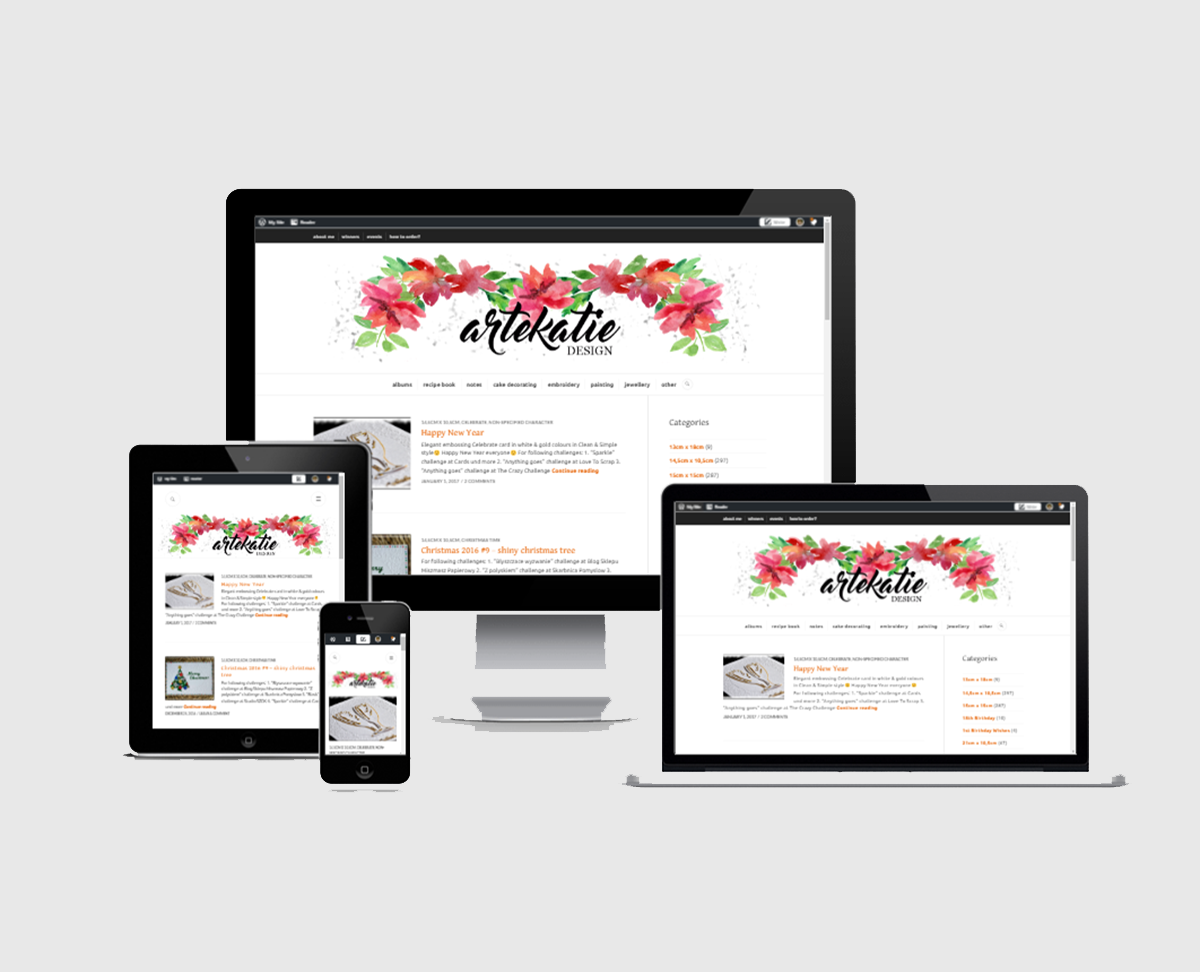
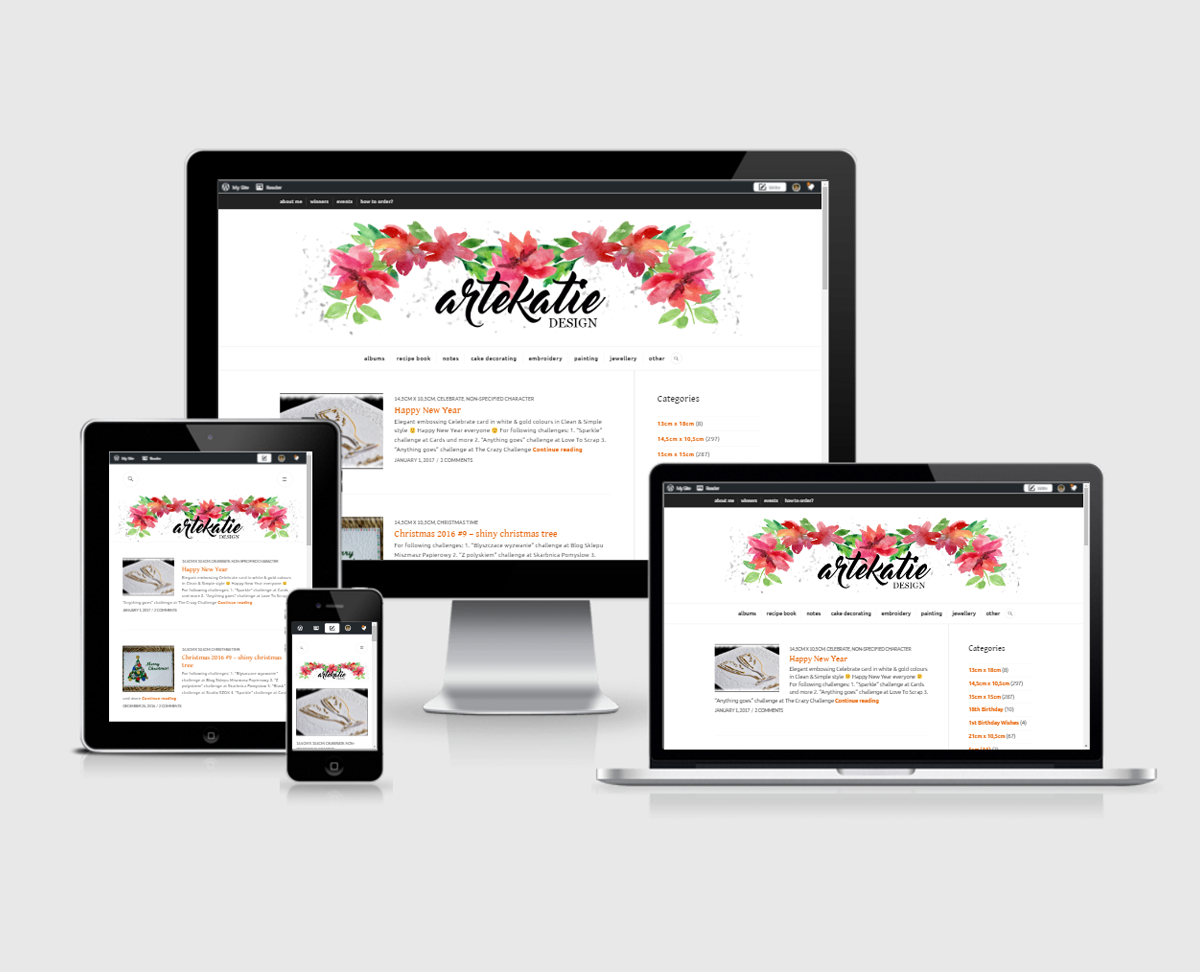
Work section images updated to 4 projects.

Changed region(s): [[0.0617, 0.1543, 0.9558, 0.8333]]

diff --git a/index.html b/index.html
@@ -37,16 +37,16 @@
 			<div class="collapse navbar-collapse" id="navbarNavDropdown">
 				<ul class="navbar-nav justify-content-center">
 					<li class="nav-item active">
-						<a class="nav-link" href="#">home<span class="sr-only">(current)</span></a>
+						<a class="nav-link" href="#top_section">home<span class="sr-only">(current)</span></a>
 					</li>
 					<li class="nav-item">
-						<a class="nav-link" href="#">skills</a>
+						<a class="nav-link" href="#skills_section">skills</a>
 					</li>
 					<li class="nav-item">
-						<a class="nav-link" href="#">portfolio</a>
+						<a class="nav-link" href="#work_section">portfolio</a>
 					</li>
 					<li class="nav-item">
-						<a class="nav-link" href="#">contact</a>
+						<a class="nav-link" href="#contact_section">contact</a>
 					</li>
 				</ul>
 			</div>
@@ -181,21 +181,21 @@
 			<h1 class="extra_text text-center">Proud to present my work</h1>
 			<div class="row">
 	            <div class="col-sm-6">
-	            	<img src="images/web_artekatie_blog.png" class="img-fluid project">
+	            	<img src="images/web_iskillu.png" class="img-fluid project img-thumbnail">
 	            </div>
 
 	            <div class="col-sm-6">
-	            	<img src="images/web_artekatie_blog.png" class="img-fluid project">
+	            	<img src="images/web_animated_banner.png" class="img-fluid project img-thumbnail">
 	            </div>
 	        </div>
 
 	        <div class="row">
 	        	<div class="col-sm-6">
-	            	<img src="images/web_artekatie_blog.png" class="img-fluid project">
+	            	<img src="images/web_portfolio.png" class="img-fluid project img-thumbnail">
 	            </div>
 
 	            <div class="col-sm-6">
-	            	<img src="images/web_artekatie_blog.png" class="img-fluid project">
+	            	<img src="images/web_artekatie_blog.png" class="img-fluid project img-thumbnail">
 	            </div>
 	        </div>
 		</div>

diff --git a/css/base.css b/css/base.css
@@ -109,13 +109,14 @@ body {
 .project {
     max-width: 100%;
     padding: 2%;
-    border-radius: 10px;
+    margin-bottom: 2rem;
 }
 
 #footer_section p, #work_section h1 {
-   /* text-align: center;*/
     padding-top: 1.75rem;
+    padding-bottom: 1.75rem;
 }
+
 
 
 
